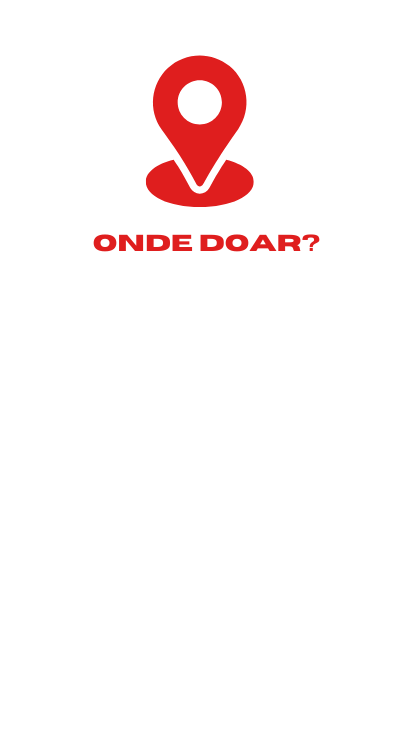
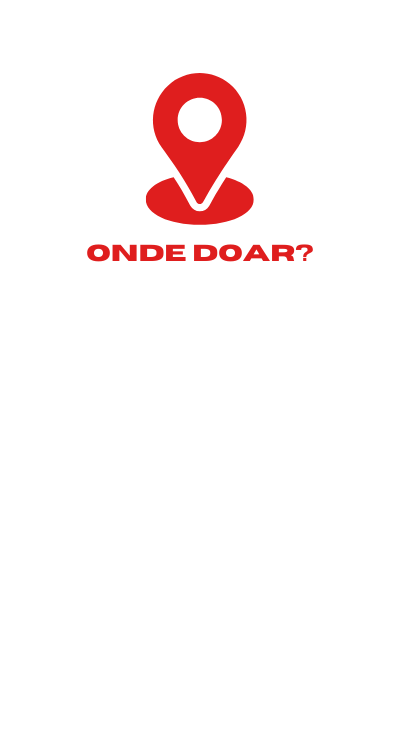
Teste

Changed region(s): [[0.21, 0.0613, 0.81, 0.368]]

diff --git a/form.html b/form.html
@@ -1,0 +1,80 @@
+<!DOCTYPE html>
+<html lang="pt-br">
+
+<head>
+
+    <meta charset="UTF-8">
+    <meta name="viewport" content="width=device-width, initial-scale=1.0">
+    <link rel="stylesheet" href="css/bootstrap.min.css">
+    <link rel="stylesheet" href="js/bootstrap.min.js">
+
+    <title>Meu Aplicativo de Doações</title>
+</head>
+
+<body class="bg-danger bg-opacity-75">
+    <div class="container">
+        <div class="row">
+            <div class="mx-auto">
+                <div class="offset-md-auto col-md-auto offset-md-auto">
+                    <img src="img/BrasaoIjui.png" alt="" srcset="" class="">
+                </div>
+                <br>
+            </div>
+            <div class="row mt-3 mb-3">
+                <div class="col-md-auto">
+                    <form id="appForm" class="">
+                        <div class="mb-3">
+                            <label for="appNome" class="form-label">Nome Completo:</label>
+                            <input type="text" id="appNome" class="form-control" placeholder="Digite seu nome completo...">
+                        </div>
+                        <div class="mb-3">
+                            <label for="appTel" class="form-label">Telefone:</label>
+                            <input type="text" id="appTel" class="form-control" placeholder="Digite seu telefone...">
+                        </div>
+                        <div class="mb-3">
+                            <label for="appEndereco" class="form-label">Endereço:</label>
+                            <input type="text" id="appEndereco" class="form-control" placeholder="Digite seu endereço...">
+                        </div>
+                        <div class="mb-3">
+                            <h5>O que você pode doar?</h5>
+                        </div>
+                        <div class="form-check form-switch">
+                            <input class="form-check-input" type="checkbox" role="switch" id="appDoacaoAgua">
+                            <label class="form-check-label" for="flexSwitchCheckDefault">Água</label>
+                          </div>
+                        <div class="form-check form-switch">
+                            <input class="form-check-input" type="checkbox" role="switch" id="appDoacaoMed">
+                            <label class="form-check-label" for="flexSwitchCheckDefault">Medicamentos</label>
+                          </div>
+                          <div class="form-check form-switch">
+                            <input class="form-check-input" type="checkbox" role="switch" id="appDoacaoPrimeirosSocorros">
+                            <label class="form-check-label" for="flexSwitchCheckDefault">Primeiros socorros</label>
+                          </div>
+                          <div class="form-check form-switch">
+                            <input class="form-check-input" type="checkbox" role="switch" id="appDoacaoItens">
+                            <label class="form-check-label" for="flexSwitchCheckDefault">Itens em geral</label>
+                          </div>
+                          <div class="form-check form-switch">
+                            <input class="form-check-input" type="checkbox" role="switch" id="appDoacaoAlimentos">
+                            <label class="form-check-label" for="flexSwitchCheckDefault">Alimentos</label>
+                          </div>
+                          <div class="form-check form-switch">
+                            <input class="form-check-input" type="checkbox" role="switch" id="appDoacaoRoupas">
+                            <label class="form-check-label" for="flexSwitchCheckDefault">Roupas</label>
+                          </div>
+                    </form>
+                </div>
+            </div>
+        </div>
+    </div>
+    <div>
+    <iframe
+  loading="lazy"
+  allowfullscreen
+  referrerpolicy="no-referrer-when-downgrade"
+  src="https://www.google.com/maps/embed/v1/place?key=AIzaSyBo2Vcp4qKL4q2uZ7yO39fAT7vX4tpviRo
+    &q=Space+Needle,Seattle+WA">
+</iframe>
+</div>
+</body>
+</html>

diff --git a/ondeDoar.html b/ondeDoar.html
@@ -18,10 +18,6 @@
             <div>
                 <div class="offset-3 col-6 offset-3 border text-center">
                     <img src="img/desingOndedoar.png" alt="" srcset="" class="">
-                    
-                    
-
-
                 </div>
             </div>
 
